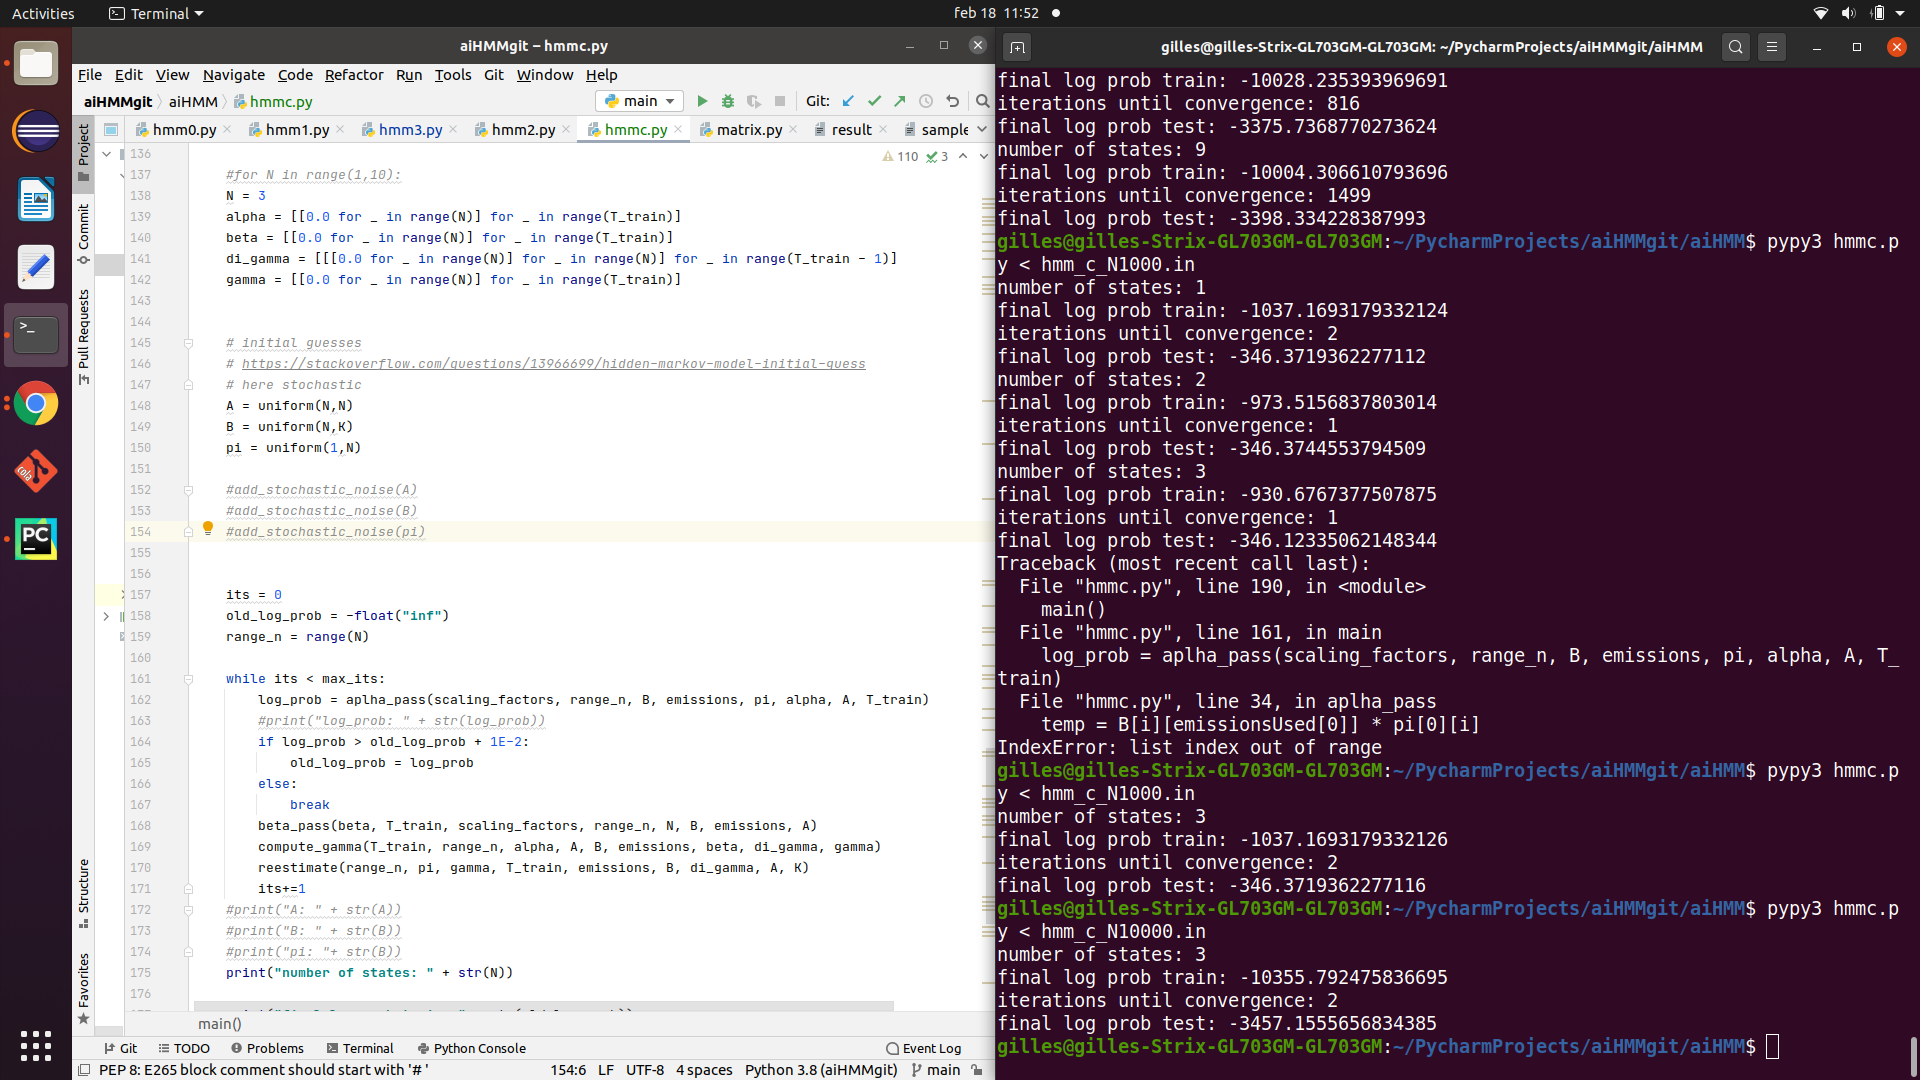
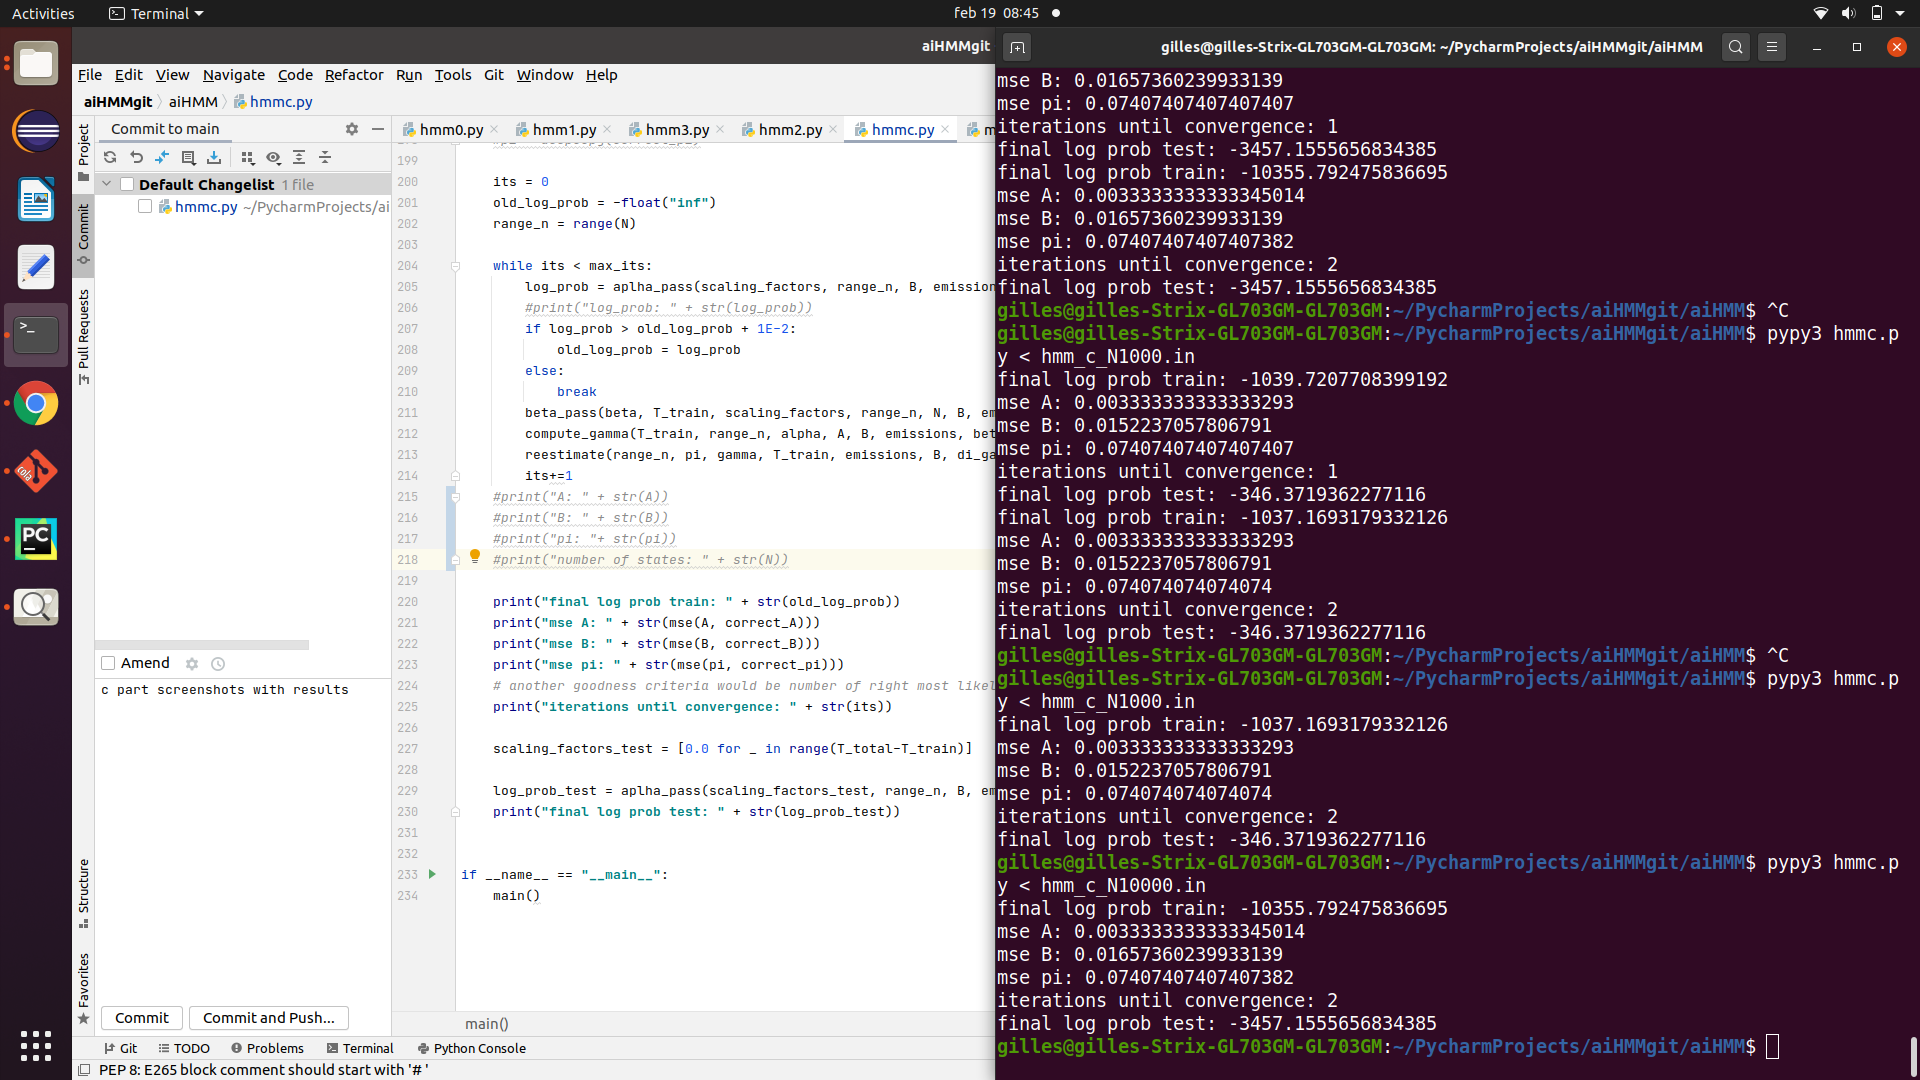
Correction mse

diff --git a/hmmc.py b/hmmc.py
@@ -118,7 +118,13 @@ def mse(matrix, correctMatrix):
     n = len(matrix[0])
     for i in range(m):
         for j in range(n):
-            mse += math.pow(matrix[i][j] - correctMatrix[i][j],2)
+            min = math.inf
+            for k in range(m):
+                rowmse = math.pow(matrix[i][j] - correctMatrix[i][j],2)
+                if (rowmse<mse):
+                    mse = rowmse
+
+            mse+=rowmse
     return mse/(m*n)
 
 
@@ -169,22 +175,22 @@ def main():
     # initial guesses
     # https://stackoverflow.com/questions/13966699/hidden-markov-model-initial-guess
     # here stochastic
-    #A = uniform(N,N)
+    A = uniform(N,N)
     B = uniform(N,K)
-    #pi = uniform(1,N)
+    pi = uniform(1,N)
 
     #add_stochastic_noise(A)
-    add_stochastic_noise(B)
+    #add_stochastic_noise(B)
     #add_stochastic_noise(pi)
 
     #diagonal
-    A = identity(N)
-    pi = [[0,0,1]]
+    #A = identity(N)
+    #pi = [[0,0,1]]
 
     # close to solution
-    #A = A_close
-    #B = B_close
-    #pi = pi_close
+    A = A_close
+    B = B_close
+    pi = pi_close
 
     # exact solution for testing
     #A = deepcopy(correct_A)
@@ -209,7 +215,7 @@ def main():
     print("A: " + str(A))
     print("B: " + str(B))
     print("pi: "+ str(pi))
-    print("number of states: " + str(N))
+    #print("number of states: " + str(N))
 
     print("final log prob train: " + str(old_log_prob))
     print("mse A: " + str(mse(A, correct_A)))
